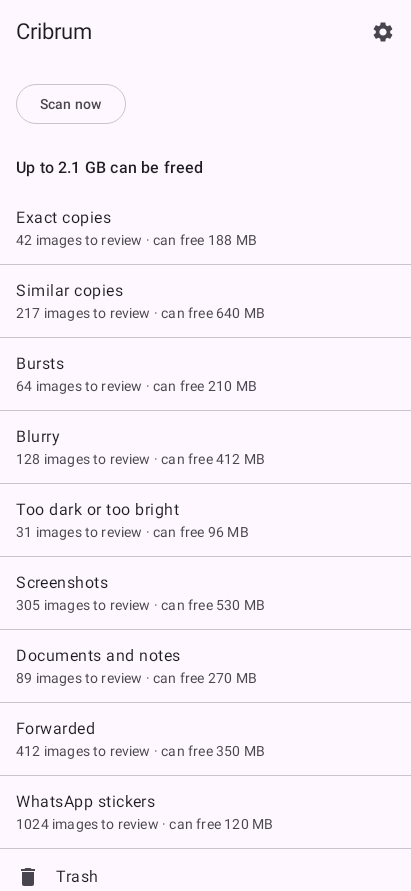
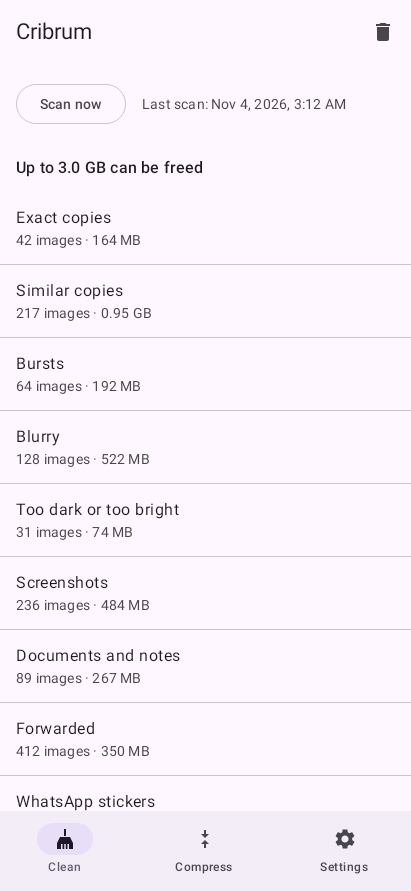
test(android): render full ui screenshots for docs and site

diff --git a/android/app/src/test/kotlin/io/github/bert0ns/cribrum/ui/ReadmeScreenshots.kt b/android/app/src/test/kotlin/io/github/bert0ns/cribrum/ui/ReadmeScreenshots.kt
@@ -1,158 +1,135 @@
 package io.github.bert0ns.cribrum.ui
 
+import android.database.SQLException
 import android.graphics.Bitmap
-import android.graphics.Canvas
-import android.graphics.Color
-import android.graphics.LinearGradient
-import android.graphics.Paint
-import android.graphics.RadialGradient
-import android.graphics.Shader
-import androidx.compose.foundation.layout.Column
-import androidx.compose.foundation.layout.fillMaxSize
-import androidx.compose.foundation.layout.padding
-import androidx.compose.material.icons.Icons
-import androidx.compose.material.icons.automirrored.filled.ArrowBack
-import androidx.compose.material.icons.filled.Settings
-import androidx.compose.material3.ExperimentalMaterial3Api
-import androidx.compose.material3.Icon
-import androidx.compose.material3.IconButton
-import androidx.compose.material3.MaterialTheme
-import androidx.compose.material3.Scaffold
 import androidx.compose.material3.Text
-import androidx.compose.material3.TopAppBar
-import androidx.compose.runtime.Composable
-import androidx.compose.ui.Modifier
-import androidx.compose.ui.graphics.asAndroidBitmap
-import androidx.compose.ui.test.captureToImage
-import androidx.compose.ui.test.junit4.createComposeRule
-import androidx.compose.ui.test.onRoot
-import io.github.bert0ns.cribrum.model.Category
-import io.github.bert0ns.cribrum.model.ImageRef
-import io.github.bert0ns.cribrum.review.CategorySummary
-import io.github.bert0ns.cribrum.review.ReviewGroup
-import io.github.bert0ns.cribrum.review.ReviewItem
-import io.github.bert0ns.cribrum.review.ReviewOrder
-import io.github.bert0ns.cribrum.trash.TrashedImage
+import androidx.compose.ui.test.junit4.createEmptyComposeRule
+import androidx.test.core.app.ApplicationProvider
+import androidx.work.Configuration
+import androidx.work.testing.SynchronousExecutor
+import androidx.work.testing.WorkManagerTestInitHelper
+import io.github.bert0ns.cribrum.CribrumApp
+import io.github.bert0ns.cribrum.ui.gallery.Gallery
+import io.github.bert0ns.cribrum.ui.gallery.GalleryWorkerFactory
+import io.github.bert0ns.cribrum.ui.gallery.GalleryWorld
+import io.github.bert0ns.cribrum.ui.gallery.MovableClock
+import io.github.bert0ns.cribrum.ui.gallery.scenes
 import org.junit.Assume.assumeTrue
 import org.junit.Rule
 import org.junit.Test
 import org.junit.rules.TemporaryFolder
+import org.junit.rules.TestRule
 import org.junit.runner.RunWith
+import org.junit.runners.model.Statement
 import org.robolectric.RobolectricTestRunner
+import org.robolectric.RuntimeEnvironment
 import org.robolectric.annotation.Config
 import org.robolectric.annotation.GraphicsMode
 import java.io.File
 import java.time.Instant
-import java.time.temporal.ChronoUnit
-import kotlin.random.Random
 
 /**
- * Renders the screens in the README (docs/screenshots) on the JVM, with the real composables and
- * theme, apart from the top bar, a copy of MainActivity's that needs no view model. Every image is
- * drawn here, so no photo is involved. It runs only when `-PreadmeScreenshots` is set
- * (android/README.md), so a normal test run neither writes the files nor pays for the sandbox.
+ * Renders the screens for the README and the website (docs/screenshots) on the JVM, driving the real
+ * app over a drawn library (android/README.md). Every image is drawn in code, so no photo from a device
+ * is involved. It runs only when `-PreadmeScreenshots` is set.
  */
 @RunWith(RobolectricTestRunner::class)
 @GraphicsMode(GraphicsMode.Mode.NATIVE)
-@Config(sdk = [36], qualifiers = "w411dp-h891dp-mdpi", application = android.app.Application::class)
+@Config(sdk = [36], qualifiers = "en-w411dp-h891dp-notnight-mdpi", application = CribrumApp::class)
 class ReadmeScreenshots {
-    @get:Rule
-    val compose = createComposeRule()
+    private var written = false
 
-    @get:Rule
+    // WorkManager's background threads can race test teardown against Room after the screenshot is written.
+    @get:Rule(order = 0)
+    val workManagerTeardown = TestRule { base, _ ->
+        object : Statement() {
+            override fun evaluate() {
+                try {
+                    base.evaluate()
+                } catch (e: Throwable) {
+                    val closed = generateSequence(e) { it.cause }.any { cause ->
+                        cause is SQLException &&
+                            cause.message.orEmpty().contains("connection is closed") &&
+                            cause.stackTrace.any { it.className.startsWith("androidx.work.") }
+                    }
+                    if (!written || !closed) throw e
+                }
+            }
+        }
+    }
+
+    @get:Rule(order = 1)
+    val compose = createEmptyComposeRule()
+
+    @get:Rule(order = 2)
     val folder = TemporaryFolder()
 
-    private val outputDir = System.getProperty("cribrum.screenshots.dir")?.let(::File)
+    private val outputDirs: List<File> by lazy {
+        val dirsProperty = System.getProperty("cribrum.screenshots.dirs")
+        if (!dirsProperty.isNullOrBlank()) {
+            dirsProperty.split(",").map { File(it.trim()) }
+        } else {
+            listOfNotNull(System.getProperty("cribrum.screenshots.dir")?.let(::File))
+        }
+    }
 
     @Test
-    fun home() = screenshot("home", title = "Cribrum", actions = { IconButton({}) { Icon(Icons.Filled.Settings, "Settings") } }) {
-        val categories = listOf(
-            CategorySummary(Category.EXACT_DUPLICATE, 42, bytes = 188_000_000),
-            CategorySummary(Category.NEAR_DUPLICATE, 217, bytes = 640_000_000),
-            CategorySummary(Category.BURST, 64, bytes = 210_000_000),
-            CategorySummary(Category.BLURRY, 128, bytes = 412_000_000),
-            CategorySummary(Category.BAD_EXPOSURE, 31, bytes = 96_000_000),
-            CategorySummary(Category.SCREENSHOT, 305, bytes = 530_000_000),
-            CategorySummary(Category.DOCUMENT, 89, bytes = 270_000_000),
-            CategorySummary(Category.FORWARDED, 412, bytes = 350_000_000),
-            CategorySummary(Category.STICKER, 1_024, bytes = 120_000_000),
+    fun home() = render("clean-results", "home.png")
+
+    @Test
+    fun category() = render("review-blurry", "category.png")
+
+    @Test
+    fun group() = render("review-near-duplicates", "group.png")
+
+    @Test
+    fun fullSize() = render("review-full-size", "full-size.png")
+
+    @Test
+    fun compress() = render("compress-selected", "compress.png")
+
+    @Test
+    fun compressSummary() = render("compress-summary", "compress-summary.png")
+
+    @Test
+    fun trash() = render("trash-items", "trash.png")
+
+    @Test
+    fun settings() = render("settings-top", "settings.png")
+
+    @Test
+    fun storageMap() = render("map-root", "storage-map.png")
+
+    private fun render(sceneId: String, fileName: String) {
+        assumeTrue("set -PreadmeScreenshots to write the screenshots", outputDirs.isNotEmpty())
+        RuntimeEnvironment.setQualifiers("en-w411dp-h891dp-notnight-mdpi")
+        val app = ApplicationProvider.getApplicationContext<CribrumApp>()
+        WorkManagerTestInitHelper.initializeTestWorkManager(
+            app,
+            Configuration.Builder().setExecutor(SynchronousExecutor()).setWorkerFactory(GalleryWorkerFactory()).build(),
         )
-        Column(Modifier.fillMaxSize()) {
-            ScanStatus(null, onScan = {})
-            CategoryList(categories, freeableBytes = 2_100_000_000, onOpen = {})
-        }
-    }
-
-    @Test
-    fun category() = screenshot("category", title = "Blurry", back = true, actions = { ReviewOrderMenu(ReviewOrder.OFF, ReviewOrder.optionsFor(Category.BLURRY)) {} }) {
-        val images = (1..24).map { thumbnail("blurry", it, blurry = true) }
-        val page = images.map { ReviewGroup(it.path, listOf(ReviewItem(it, suggestTrash = true))) }
-        val kept = setOf(images[2].path, images[7].path, images[12].path, images[17].path)
-        CategoryScreen(page, 128, marked = images.map { it.path }.toSet() - kept, grouped = false, onToggle = {}, onApply = { _, _ -> }, onSkip = {})
-    }
-
-    @Test
-    fun trash() = screenshot("trash", title = "Trash", back = true) {
-        val now = Instant.now()
-        val trashed = (1..12).map { index ->
-            val image = thumbnail("trash", index, blurry = index % 2 == 0)
-            TrashedImage(image, now.minus(index.toLong(), ChronoUnit.DAYS), File(image.path), now.plus(30L - index, ChronoUnit.DAYS))
-        }
-        TrashScreen(trashed, selected = setOf(trashed[1].file.path, trashed[4].file.path), onSelect = {}, onSelectAll = { _, _ -> }, onRestore = {}, onDelete = {})
-    }
-
-    @OptIn(ExperimentalMaterial3Api::class)
-    private fun screenshot(name: String, title: String, back: Boolean = false, actions: @Composable () -> Unit = {}, content: @Composable () -> Unit) {
-        assumeTrue("set -PreadmeScreenshots to write the screenshots", outputDir != null)
-        compose.setContent {
-            MaterialTheme {
-                Scaffold(topBar = {
-                    TopAppBar(
-                        title = { Text(title) },
-                        navigationIcon = { if (back) IconButton({}) { Icon(Icons.AutoMirrored.Filled.ArrowBack, "Back") } },
-                        actions = { actions() },
-                    )
-                }) { padding -> Column(Modifier.fillMaxSize().padding(padding)) { content() } }
+        val clock = MovableClock(Instant.parse("2026-11-04T12:00:00Z"))
+        val gallery = Gallery(compose, app, GalleryWorld(app, folder.newFolder("sdcard"), clock = clock))
+        try {
+            prime(gallery)
+            val scene = checkNotNull(scenes.firstOrNull { it.id == sceneId }) { "scene $sceneId not found" }
+            scene.run(gallery)
+            gallery.settle()
+            val bitmap = gallery.capture()
+            for (dir in outputDirs) {
+                dir.mkdirs()
+                File(dir, fileName).outputStream().use { bitmap.compress(Bitmap.CompressFormat.PNG, 100, it) }
             }
+            written = true
+        } finally {
+            gallery.close()
         }
-        // Coil decodes the thumbnails off the main thread, and Compose does not wait for it.
-        repeat(20) {
-            compose.waitForIdle()
-            Thread.sleep(100)
-        }
-        val bitmap = compose.onRoot().captureToImage().asAndroidBitmap()
-        outputDir!!.mkdirs()
-        File(outputDir, "$name.png").outputStream().use { bitmap.compress(Bitmap.CompressFormat.PNG, 100, it) }
     }
 
-    /** A drawn picture: a gradient with a few shapes. The blurry ones are soft blobs. Nothing is a photo. */
-    private fun thumbnail(set: String, index: Int, blurry: Boolean): ImageRef {
-        val random = Random(index * 31 + set.length)
-        val size = 140
-        val bitmap = Bitmap.createBitmap(size, size, Bitmap.Config.ARGB_8888)
-        val canvas = Canvas(bitmap)
-        val hue = random.nextFloat() * 360f
-        val sky = Color.HSVToColor(floatArrayOf(hue, 0.45f, 0.95f))
-        val ground = Color.HSVToColor(floatArrayOf((hue + 40f) % 360f, 0.6f, 0.55f))
-        val paint = Paint(Paint.ANTI_ALIAS_FLAG)
-        paint.shader = LinearGradient(0f, 0f, 0f, size.toFloat(), sky, ground, Shader.TileMode.CLAMP)
-        canvas.drawRect(0f, 0f, size.toFloat(), size.toFloat(), paint)
-        repeat(3) {
-            val x = random.nextFloat() * size
-            val y = size * (0.3f + random.nextFloat() * 0.6f)
-            val radius = size * (0.12f + random.nextFloat() * 0.18f)
-            val color = Color.HSVToColor(floatArrayOf(random.nextFloat() * 360f, 0.7f, 0.9f))
-            if (blurry) {
-                paint.shader = RadialGradient(x, y, radius * 1.8f, color, Color.TRANSPARENT, Shader.TileMode.CLAMP)
-                canvas.drawCircle(x, y, radius * 1.8f, paint)
-            } else {
-                paint.shader = null
-                paint.color = color
-                canvas.drawCircle(x, y, radius, paint)
-            }
-        }
-        val file = folder.newFile("$set$index.png")
-        file.outputStream().use { bitmap.compress(Bitmap.CompressFormat.PNG, 100, it) }
-        return ImageRef(file.path, file.length(), 0)
+    /** Sets up native graphics so dialogs and complex views render safely. */
+    private fun prime(gallery: Gallery) {
+        gallery.launch { Text("Cribrum") }
+        gallery.capture()
+        gallery.close()
     }
 }

diff --git a/android/app/src/test/kotlin/io/github/bert0ns/cribrum/ui/gallery/GalleryScenes.kt b/android/app/src/test/kotlin/io/github/bert0ns/cribrum/ui/gallery/GalleryScenes.kt
@@ -139,22 +139,25 @@ private fun Gallery.scanRunning(step: String, done: Int, total: Int, leftMs: Lon
 }
 
 /** 03:12 this morning, when the nightly scan ends. */
-private fun lastNight(): Long = java.util.Calendar.getInstance().apply {
-    set(java.util.Calendar.HOUR_OF_DAY, 3)
-    set(java.util.Calendar.MINUTE, 12)
-}.timeInMillis
+private fun Gallery.lastNight(): Long {
+    val zdt = world.clock.now.atZone(java.time.ZoneId.systemDefault())
+    return java.util.Calendar.getInstance().apply {
+        set(zdt.year, zdt.monthValue - 1, zdt.dayOfMonth, 3, 12, 0)
+        set(java.util.Calendar.MILLISECOND, 0)
+    }.timeInMillis
+}
 
 private fun Gallery.settings(model: ReviewViewModel) {
     world.library(others = true)
     world.commit()
     runBlocking {
-        app.index.excludeFolder(world.path("Pictures", "Memes"))
-        app.index.excludeFolder(world.path("WhatsApp/Media", "WhatsApp Video"))
+        app.index.excludeFolder("/sdcard/Pictures/Memes")
+        app.index.excludeFolder("/sdcard/WhatsApp/Media/WhatsApp Video")
     }
     app.lastScan.record(
         Stats(images = 2_350, newOrChanged = 18, unreadable = 2, unreadablePaths = listOf("/sdcard/Download/broken.jpg", "/sdcard/Pictures/old.heic"))
             .also { it.failures += Failure("/sdcard/DCIM/Camera/IMG_20261014_183422.jpg", "blur", "OutOfMemoryError: bitmap too large") },
-        finishedAt = System.currentTimeMillis() - 5 * 3_600_000L,
+        finishedAt = world.clock.now.toEpochMilli() - 5 * 3_600_000L,
         durationMs = 412_000,
     )
     goTo(model, R.string.nav_settings) { it.state.value.screen == Screen.Settings && it.state.value.coverage != null && it.state.value.storage != null }
@@ -195,6 +198,7 @@ val scenes: List<Scene> = listOf(
         world.commit()
         val model = app()
         openCategory(model, R.string.category_near_duplicate)
+        keep(1)
     },
     Scene("review-blurry", "Review of Blurry photos, three kept", "Tap a photo to keep it or mark it for the trash, hold one to see it full size, trash the marked ones or skip the page.", Variant.full) {
         world.library(pictures = setOf(Category.BLURRY))
@@ -231,6 +235,10 @@ val scenes: List<Scene> = listOf(
         world.commit()
         val model = app()
         openCategory(model, R.string.category_blurry)
+        val itemPath = model.state.value.page.flatMap { it.images }[1].image.path
+        val targetFile = File(itemPath)
+        val large = GalleryPictures.scene(1_001, width = 1080, height = 810)
+        GalleryPictures.write(targetFile, large, targetFile.length())
         described(str(R.string.selected_for_trash))[1].performTouchInput { longClick() }
         awaitTag("fullSize")
     },

diff --git a/android/app/src/test/kotlin/io/github/bert0ns/cribrum/ui/gallery/GalleryWorld.kt b/android/app/src/test/kotlin/io/github/bert0ns/cribrum/ui/gallery/GalleryWorld.kt
@@ -68,8 +68,7 @@ class GalleryWorkerFactory : WorkerFactory() {
  * file stand for the rest of the library: they give the counts and sizes of the home and the map, and never reach a
  * page, because the pictures that do are ranked above them.
  */
-class GalleryWorld(val app: CribrumApp, val root: File) {
-    val clock = MovableClock()
+class GalleryWorld(val app: CribrumApp, val root: File, val clock: MovableClock = MovableClock()) {
     val trash = AppTrash({ listOf(root) }, clock)
     val favorites = mutableSetOf<String>()
 
@@ -152,7 +151,7 @@ class GalleryWorld(val app: CribrumApp, val root: File) {
 
     /** Puts [images] in the trash on the days given by [daysAgo], as if the user had trashed them then. */
     fun trashed(images: List<ImageRef>, daysAgo: (Int) -> Long) = runBlocking {
-        val today = Instant.now()
+        val today = clock.now
         images.forEachIndexed { index, image ->
             clock.now = today.minusSeconds(daysAgo(index) * 86_400)
             trash.moveToTrash(listOf(image))

diff --git a/android/README.md b/android/README.md
@@ -46,7 +46,7 @@ It keeps the debug build's application id and signature, so it installs over a d
 
 ### README screenshots
 
-`ReadmeScreenshots` renders the home, a category grid and the trash on the JVM, with the real composables and theme, and every image drawn in code. `-PreadmeScreenshots` makes it write `docs/screenshots/*.png`. Without the property Gradle leaves the test out, so a normal run leaves the files alone and CI does not depend on them:
+`ReadmeScreenshots` renders the home, review pages, groups, the full size view, the compress page, the confirmation dialog, the trash, and settings on the JVM, with the real composables and theme, and every image drawn in code. `-PreadmeScreenshots` makes it write `docs/screenshots/*.png` and `site/screenshots/*.png`. Without the property Gradle leaves the test out, so a normal run leaves the files alone and CI does not depend on them:
 
 ```bash
 ./gradlew -PreadmeScreenshots testDebugUnitTest --tests '*ReadmeScreenshots'
